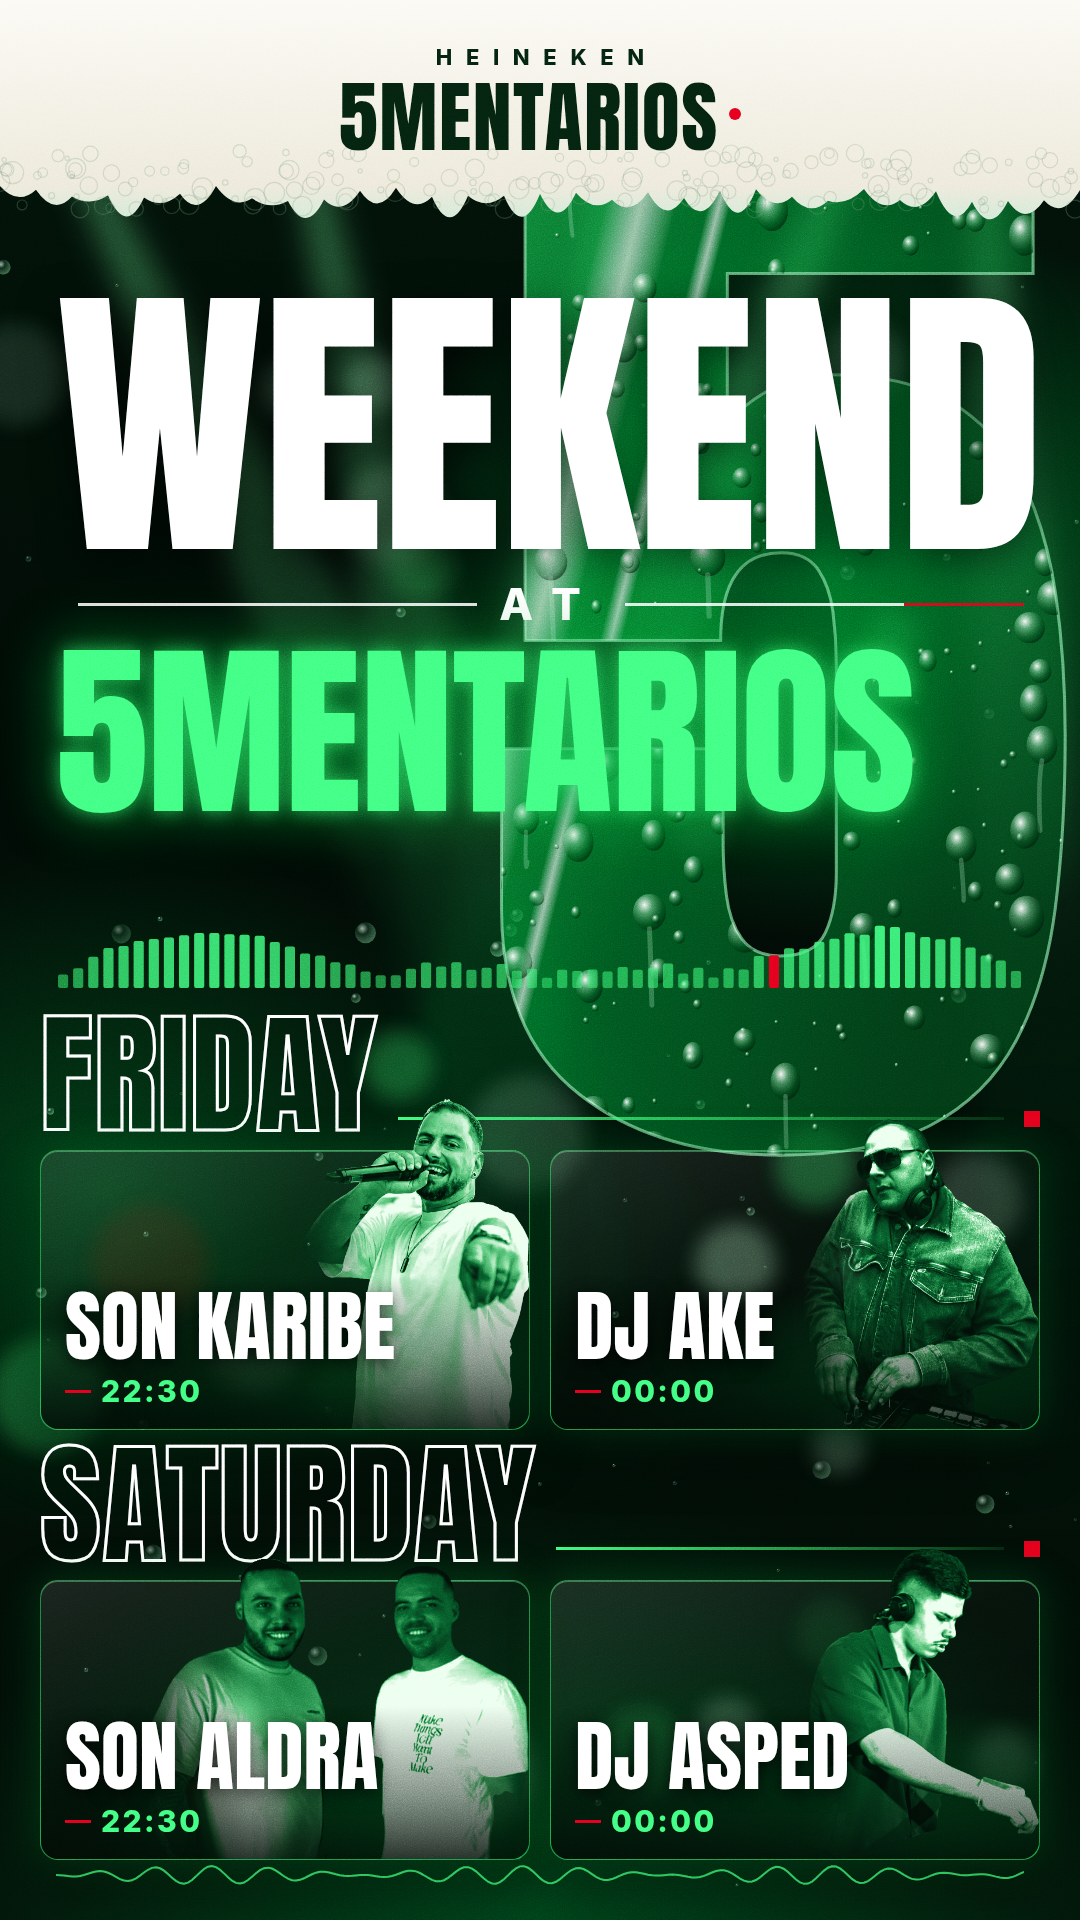
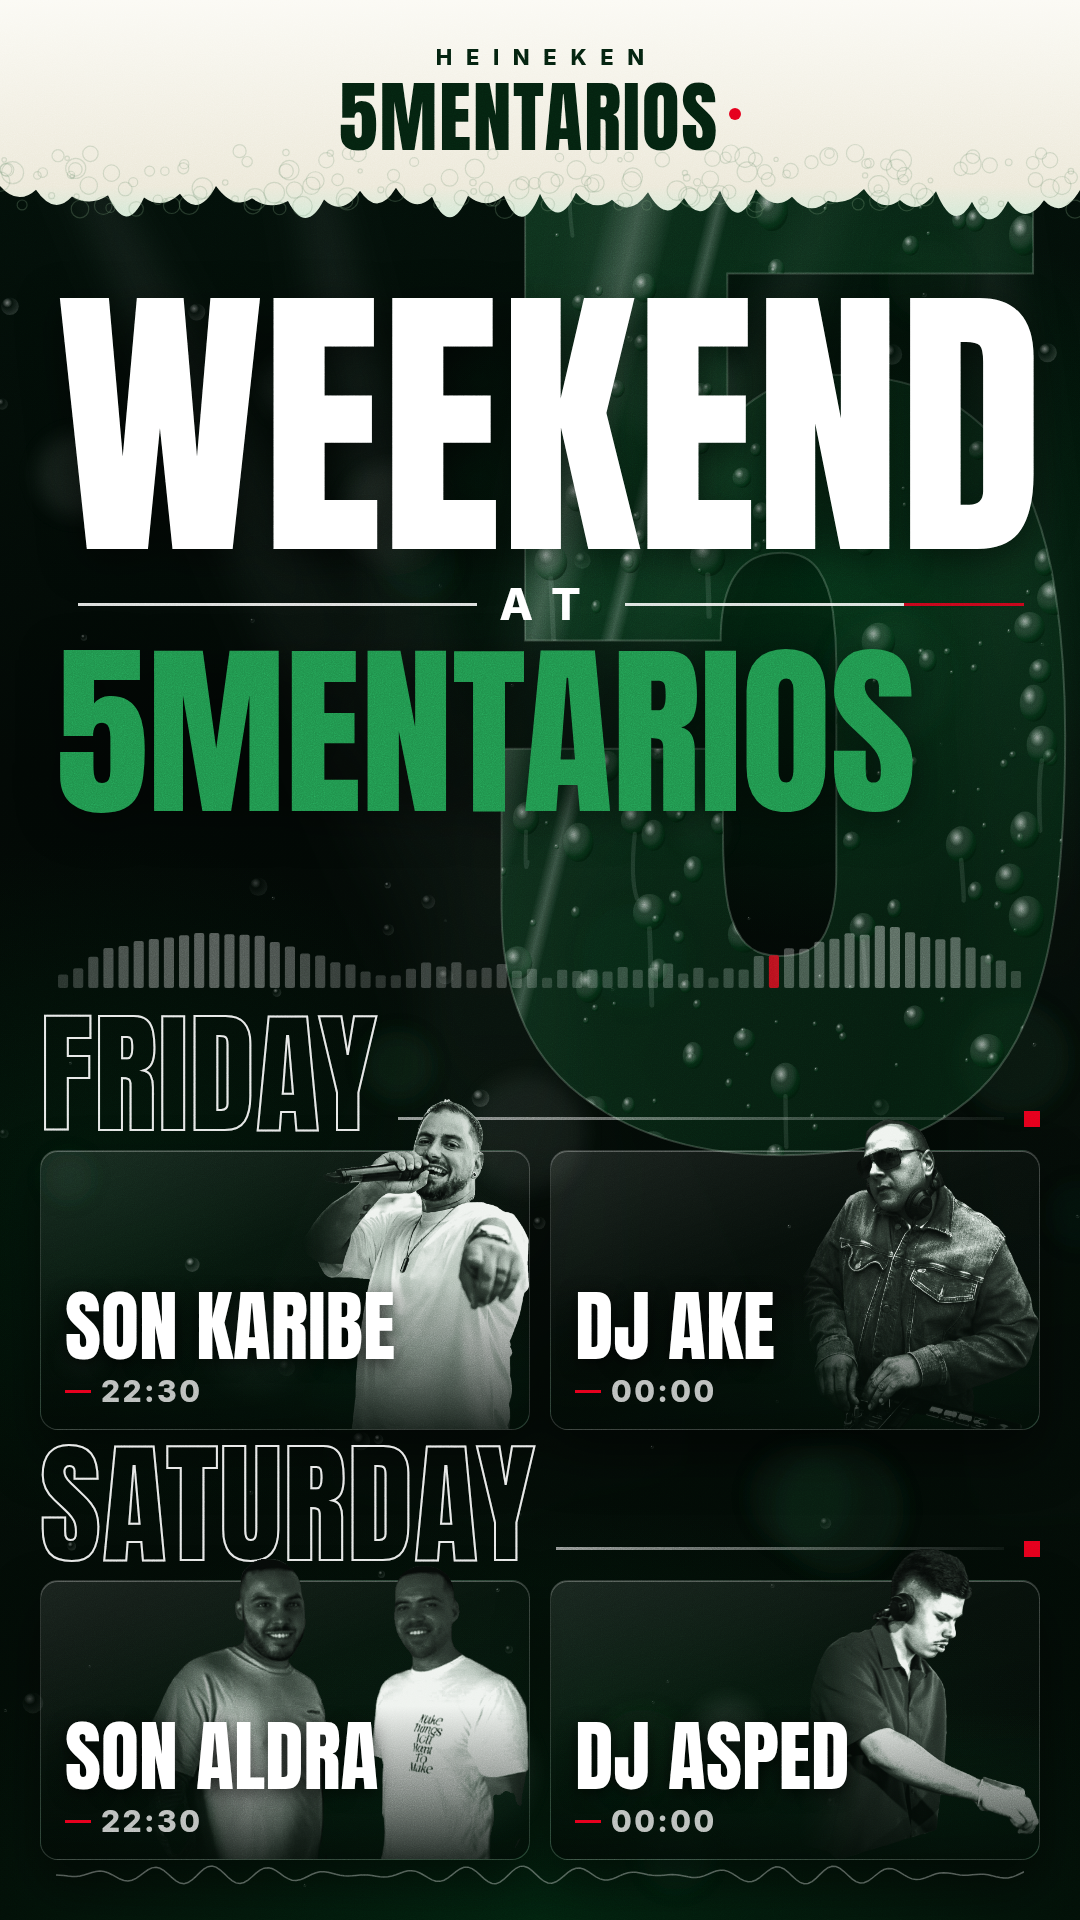
Tone down 5mentarios poster palette: drop neon greens, near-monochrome photos
Claude-Session: https://claude.ai/code/session_01RJzBzF85Mf8EXnmYDeiEGb

diff --git a/posts/2026-09-25-musica-en-directo/5mentarios.html b/posts/2026-09-25-musica-en-directo/5mentarios.html
@@ -7,7 +7,7 @@
 <style>
   :root {
     --green: #00a13a;
-    --green-neon: #3dff7a;
+    --green-neon: #5fae7c;
     --green-deep: #04210f;
     --black: #010a05;
     --red: #e3001b;
@@ -27,20 +27,20 @@
   /* ---------- atmósfera ---------- */
   .glow {
     background:
-      radial-gradient(700px 520px at 78% 30%, rgba(0,161,58,.55), transparent 70%),
-      radial-gradient(600px 500px at 10% 62%, rgba(0,161,58,.30), transparent 70%),
-      radial-gradient(900px 600px at 50% 100%, rgba(0,120,45,.45), transparent 70%),
-      linear-gradient(180deg, #021309 0%, var(--black) 40%, #020f07 100%);
+      radial-gradient(700px 520px at 78% 30%, rgba(0,110,45,.28), transparent 70%),
+      radial-gradient(600px 500px at 10% 62%, rgba(0,100,40,.14), transparent 70%),
+      radial-gradient(900px 600px at 50% 100%, rgba(0,80,32,.30), transparent 70%),
+      linear-gradient(180deg, #03110a 0%, #020805 40%, #030d07 100%);
   }
-  .beams { mix-blend-mode: screen; filter: blur(14px); opacity: .55; }
+  .beams { mix-blend-mode: screen; filter: blur(18px); opacity: .16; }
   .beam {
     position: absolute; top: 120px; width: 260px; height: 1900px;
     transform-origin: 50% 0;
-    background: linear-gradient(180deg, rgba(120,255,160,.55), rgba(0,161,58,.12) 45%, transparent 75%);
+    background: linear-gradient(180deg, rgba(220,240,225,.5), rgba(120,170,135,.1) 45%, transparent 75%);
     clip-path: polygon(46% 0, 54% 0, 100% 100%, 0 100%);
   }
   svg.fx { position: absolute; inset: 0; width: 100%; height: 100%; }
-  .grain { mix-blend-mode: overlay; opacity: .55; z-index: 30; pointer-events: none; }
+  .grain { mix-blend-mode: overlay; opacity: .45; z-index: 30; pointer-events: none; }
 
   /* ---------- cabecera: espuma ---------- */
   .foam { position: absolute; left: 0; right: 0; top: 0; height: 250px; z-index: 6; }
@@ -78,8 +78,8 @@
   .at::after { background: linear-gradient(90deg, var(--white), var(--white) 70%, var(--red) 70%); }
   .brand {
     font-family: "Anton", sans-serif; font-size: 186px; line-height: .9; letter-spacing: -.005em;
-    color: var(--green-neon);
-    text-shadow: 0 0 18px rgba(61,255,122,.55), 0 0 60px rgba(0,161,58,.8);
+    color: #1f8f4a;
+    text-shadow: 0 10px 40px rgba(0,0,0,.5);
     white-space: nowrap;
   }
 
@@ -94,19 +94,19 @@
   }
   .day b {
     font-family: "Anton", sans-serif; font-weight: 400; font-size: 132px; line-height: .8;
-    color: transparent; -webkit-text-stroke: 3px var(--white);
+    color: transparent; -webkit-text-stroke: 2px rgba(255,255,255,.9);
     letter-spacing: .01em;
   }
-  .day .rule { flex: 1; height: 3px; margin-bottom: 8px; background: linear-gradient(90deg, var(--green-neon), rgba(61,255,122,.1)); }
+  .day .rule { flex: 1; height: 3px; margin-bottom: 8px; background: linear-gradient(90deg, rgba(255,255,255,.55), rgba(255,255,255,.05)); }
   .day .tick { width: 16px; height: 16px; background: var(--red); margin-bottom: 1px; }
   .cards { display: grid; grid-template-columns: 1fr 1fr; gap: 20px; margin-top: 22px; height: 280px; }
   .card {
     position: relative; border-radius: 18px;
     background:
-      radial-gradient(120% 90% at 80% 100%, rgba(0,161,58,.55), transparent 60%),
+      radial-gradient(120% 90% at 80% 100%, rgba(20,90,50,.35), transparent 60%),
       linear-gradient(160deg, rgba(255,255,255,.09), rgba(255,255,255,.02) 40%, rgba(0,0,0,.25));
-    border: 1.5px solid rgba(61,255,122,.45);
-    box-shadow: inset 0 1px 0 rgba(255,255,255,.25), 0 0 40px rgba(0,161,58,.25), 0 25px 50px rgba(0,0,0,.5);
+    border: 1px solid rgba(255,255,255,.14);
+    box-shadow: inset 0 1px 0 rgba(255,255,255,.25), 0 25px 50px rgba(0,0,0,.5);
   }
   .card .photo {
     position: absolute; right: 0; bottom: 0; z-index: 1;
@@ -125,7 +125,7 @@
   }
   .card .time {
     display: inline-flex; align-items: center; gap: 10px; margin-top: 10px;
-    font-weight: 800; font-size: 30px; letter-spacing: .08em; color: var(--green-neon);
+    font-weight: 800; font-size: 30px; letter-spacing: .08em; color: rgba(255,255,255,.72);
   }
   .card .time::before { content: ""; width: 26px; height: 3px; background: var(--red); }
 
@@ -143,25 +143,25 @@
   <svg class="five" viewBox="0 0 900 1100" xmlns="http://www.w3.org/2000/svg">
     <defs>
       <linearGradient id="glass" x1="0" y1="0" x2="1" y2="1">
-        <stop offset="0" stop-color="#2bd164" stop-opacity=".75"/>
-        <stop offset=".35" stop-color="#00a13a" stop-opacity=".55"/>
-        <stop offset=".7" stop-color="#035a22" stop-opacity=".6"/>
+        <stop offset="0" stop-color="#2c6e45" stop-opacity=".45"/>
+        <stop offset=".35" stop-color="#14502c" stop-opacity=".4"/>
+        <stop offset=".7" stop-color="#0a3019" stop-opacity=".5"/>
         <stop offset="1" stop-color="#012a10" stop-opacity=".8"/>
       </linearGradient>
       <linearGradient id="shine" x1="0" y1="0" x2="1" y2="0">
         <stop offset="0" stop-color="#fff" stop-opacity="0"/>
-        <stop offset=".5" stop-color="#fff" stop-opacity=".55"/>
+        <stop offset=".5" stop-color="#fff" stop-opacity=".18"/>
         <stop offset="1" stop-color="#fff" stop-opacity="0"/>
       </linearGradient>
       <radialGradient id="drop" cx=".35" cy=".3" r=".7">
-        <stop offset="0" stop-color="#fff" stop-opacity=".95"/>
-        <stop offset=".35" stop-color="#bfffd2" stop-opacity=".35"/>
+        <stop offset="0" stop-color="#fff" stop-opacity=".55"/>
+        <stop offset=".35" stop-color="#d5e6da" stop-opacity=".12"/>
         <stop offset=".8" stop-color="#003d16" stop-opacity=".25"/>
         <stop offset="1" stop-color="#001a09" stop-opacity=".55"/>
       </radialGradient>
       <clipPath id="fiveClip"><text x="450" y="1030" text-anchor="middle" font-family="Anton" font-size="1240">5</text></clipPath>
     </defs>
-    <text x="450" y="1030" text-anchor="middle" font-family="Anton" font-size="1240" fill="url(#glass)" stroke="rgba(160,255,190,.55)" stroke-width="3">5</text>
+    <text x="450" y="1030" text-anchor="middle" font-family="Anton" font-size="1240" fill="url(#glass)" stroke="rgba(200,225,205,.22)" stroke-width="2">5</text>
     <g clip-path="url(#fiveClip)">
       <rect x="170" y="-100" width="70" height="1400" fill="url(#shine)" transform="rotate(14 450 550)"/>
       <rect x="270" y="-100" width="22" height="1400" fill="url(#shine)" transform="rotate(14 450 550)"/>
@@ -254,15 +254,15 @@
 
   // bokeh de luces de bar + burbujas subiendo
   let bk = `<defs><filter id="bl"><feGaussianBlur stdDeviation="10"/></filter>
-    <radialGradient id="bub" cx=".35" cy=".3" r=".7"><stop offset="0" stop-color="#fff" stop-opacity=".9"/><stop offset=".4" stop-color="#9fffc0" stop-opacity=".15"/><stop offset="1" stop-color="#9fffc0" stop-opacity=".5"/></radialGradient></defs><g filter="url(#bl)">`;
+    <radialGradient id="bub" cx=".35" cy=".3" r=".7"><stop offset="0" stop-color="#fff" stop-opacity=".9"/><stop offset=".4" stop-color="#dfe9e2" stop-opacity=".05"/><stop offset="1" stop-color="#dfe9e2" stop-opacity=".3"/></radialGradient></defs><g filter="url(#bl)">`;
   for (let i = 0; i < 26; i++) {
-    const r = 18 + rnd() * 50, c = rnd() > .85 ? "#e3001b" : (rnd() > .5 ? "#3dff7a" : "#c9ffd9");
-    bk += `<circle cx="${rnd() * 1080}" cy="${260 + rnd() * 1600}" r="${r}" fill="${c}" opacity="${.08 + rnd() * .18}"/>`;
+    const r = 18 + rnd() * 50, c = rnd() > .9 ? "#b3121f" : (rnd() > .5 ? "#2f7a4a" : "#d8e4dc");
+    bk += `<circle cx="${rnd() * 1080}" cy="${260 + rnd() * 1600}" r="${r}" fill="${c}" opacity="${.04 + rnd() * .08}"/>`;
   }
   bk += `</g>`;
   for (let i = 0; i < 90; i++) {
     const x = rnd() * 1080, y = 260 + rnd() * 1640, r = 1.5 + Math.pow(rnd(), 3) * 9;
-    bk += `<circle cx="${x}" cy="${y}" r="${r}" fill="url(#bub)" opacity="${.35 + rnd() * .5}"/>`;
+    bk += `<circle cx="${x}" cy="${y}" r="${r}" fill="url(#bub)" opacity="${.2 + rnd() * .35}"/>`;
   }
   document.getElementById("bokeh").innerHTML = bk;
 
@@ -272,7 +272,7 @@
     const r = 2 + Math.pow(rnd(), 2.4) * 16;
     const x = rnd() * 900, y = rnd() * 1100;
     dr += `<ellipse cx="${x}" cy="${y}" rx="${r}" ry="${r * (1 + rnd() * .35)}" fill="url(#drop)"/>`;
-    if (r > 13 && rnd() > .7) dr += `<path d="M${x} ${y + r} q ${rnd() * 10 - 5} ${20 + rnd() * 30} ${rnd() * 6 - 3} ${30 + rnd() * 50}" stroke="rgba(210,255,225,.22)" stroke-width="${r * .3}" stroke-linecap="round" fill="none"/>`;
+    if (r > 13 && rnd() > .7) dr += `<path d="M${x} ${y + r} q ${rnd() * 10 - 5} ${20 + rnd() * 30} ${rnd() * 6 - 3} ${30 + rnd() * 50}" stroke="rgba(220,235,225,.1)" stroke-width="${r * .3}" stroke-linecap="round" fill="none"/>`;
   }
   document.getElementById("drops").innerHTML = dr;
 
@@ -294,14 +294,14 @@
   for (let i = 0; i < n; i++) {
     const t = i / n, h = 8 + Math.abs(Math.sin(t * 9.4) * Math.cos(t * 3.1)) * 52 + rnd() * 10;
     const red = i === 47;
-    eq += `<rect x="${i * w + 2}" y="${70 - h}" width="${w - 5}" height="${h}" rx="2" fill="${red ? "#e3001b" : "#3dff7a"}" opacity="${red ? 1 : .35 + h / 110}"/>`;
+    eq += `<rect x="${i * w + 2}" y="${70 - h}" width="${w - 5}" height="${h}" rx="2" fill="${red ? "#c8101e" : "#ffffff"}" opacity="${red ? .9 : .1 + h / 260}"/>`;
   }
   document.getElementById("eq").innerHTML = eq;
 
   // onda de sonido en el pie
   let wv = "M0 11";
   for (let x = 0; x <= 968; x += 4) wv += ` L${x} ${11 + Math.sin(x / 9) * Math.sin(x / 97) * 9}`;
-  document.getElementById("wave").innerHTML = `<path d="${wv}" stroke="#3dff7a" stroke-width="2" fill="none" opacity=".7"/>`;
+  document.getElementById("wave").innerHTML = `<path d="${wv}" stroke="#ffffff" stroke-width="1.5" fill="none" opacity=".3"/>`;
 </script>
 </body>
 </html>
